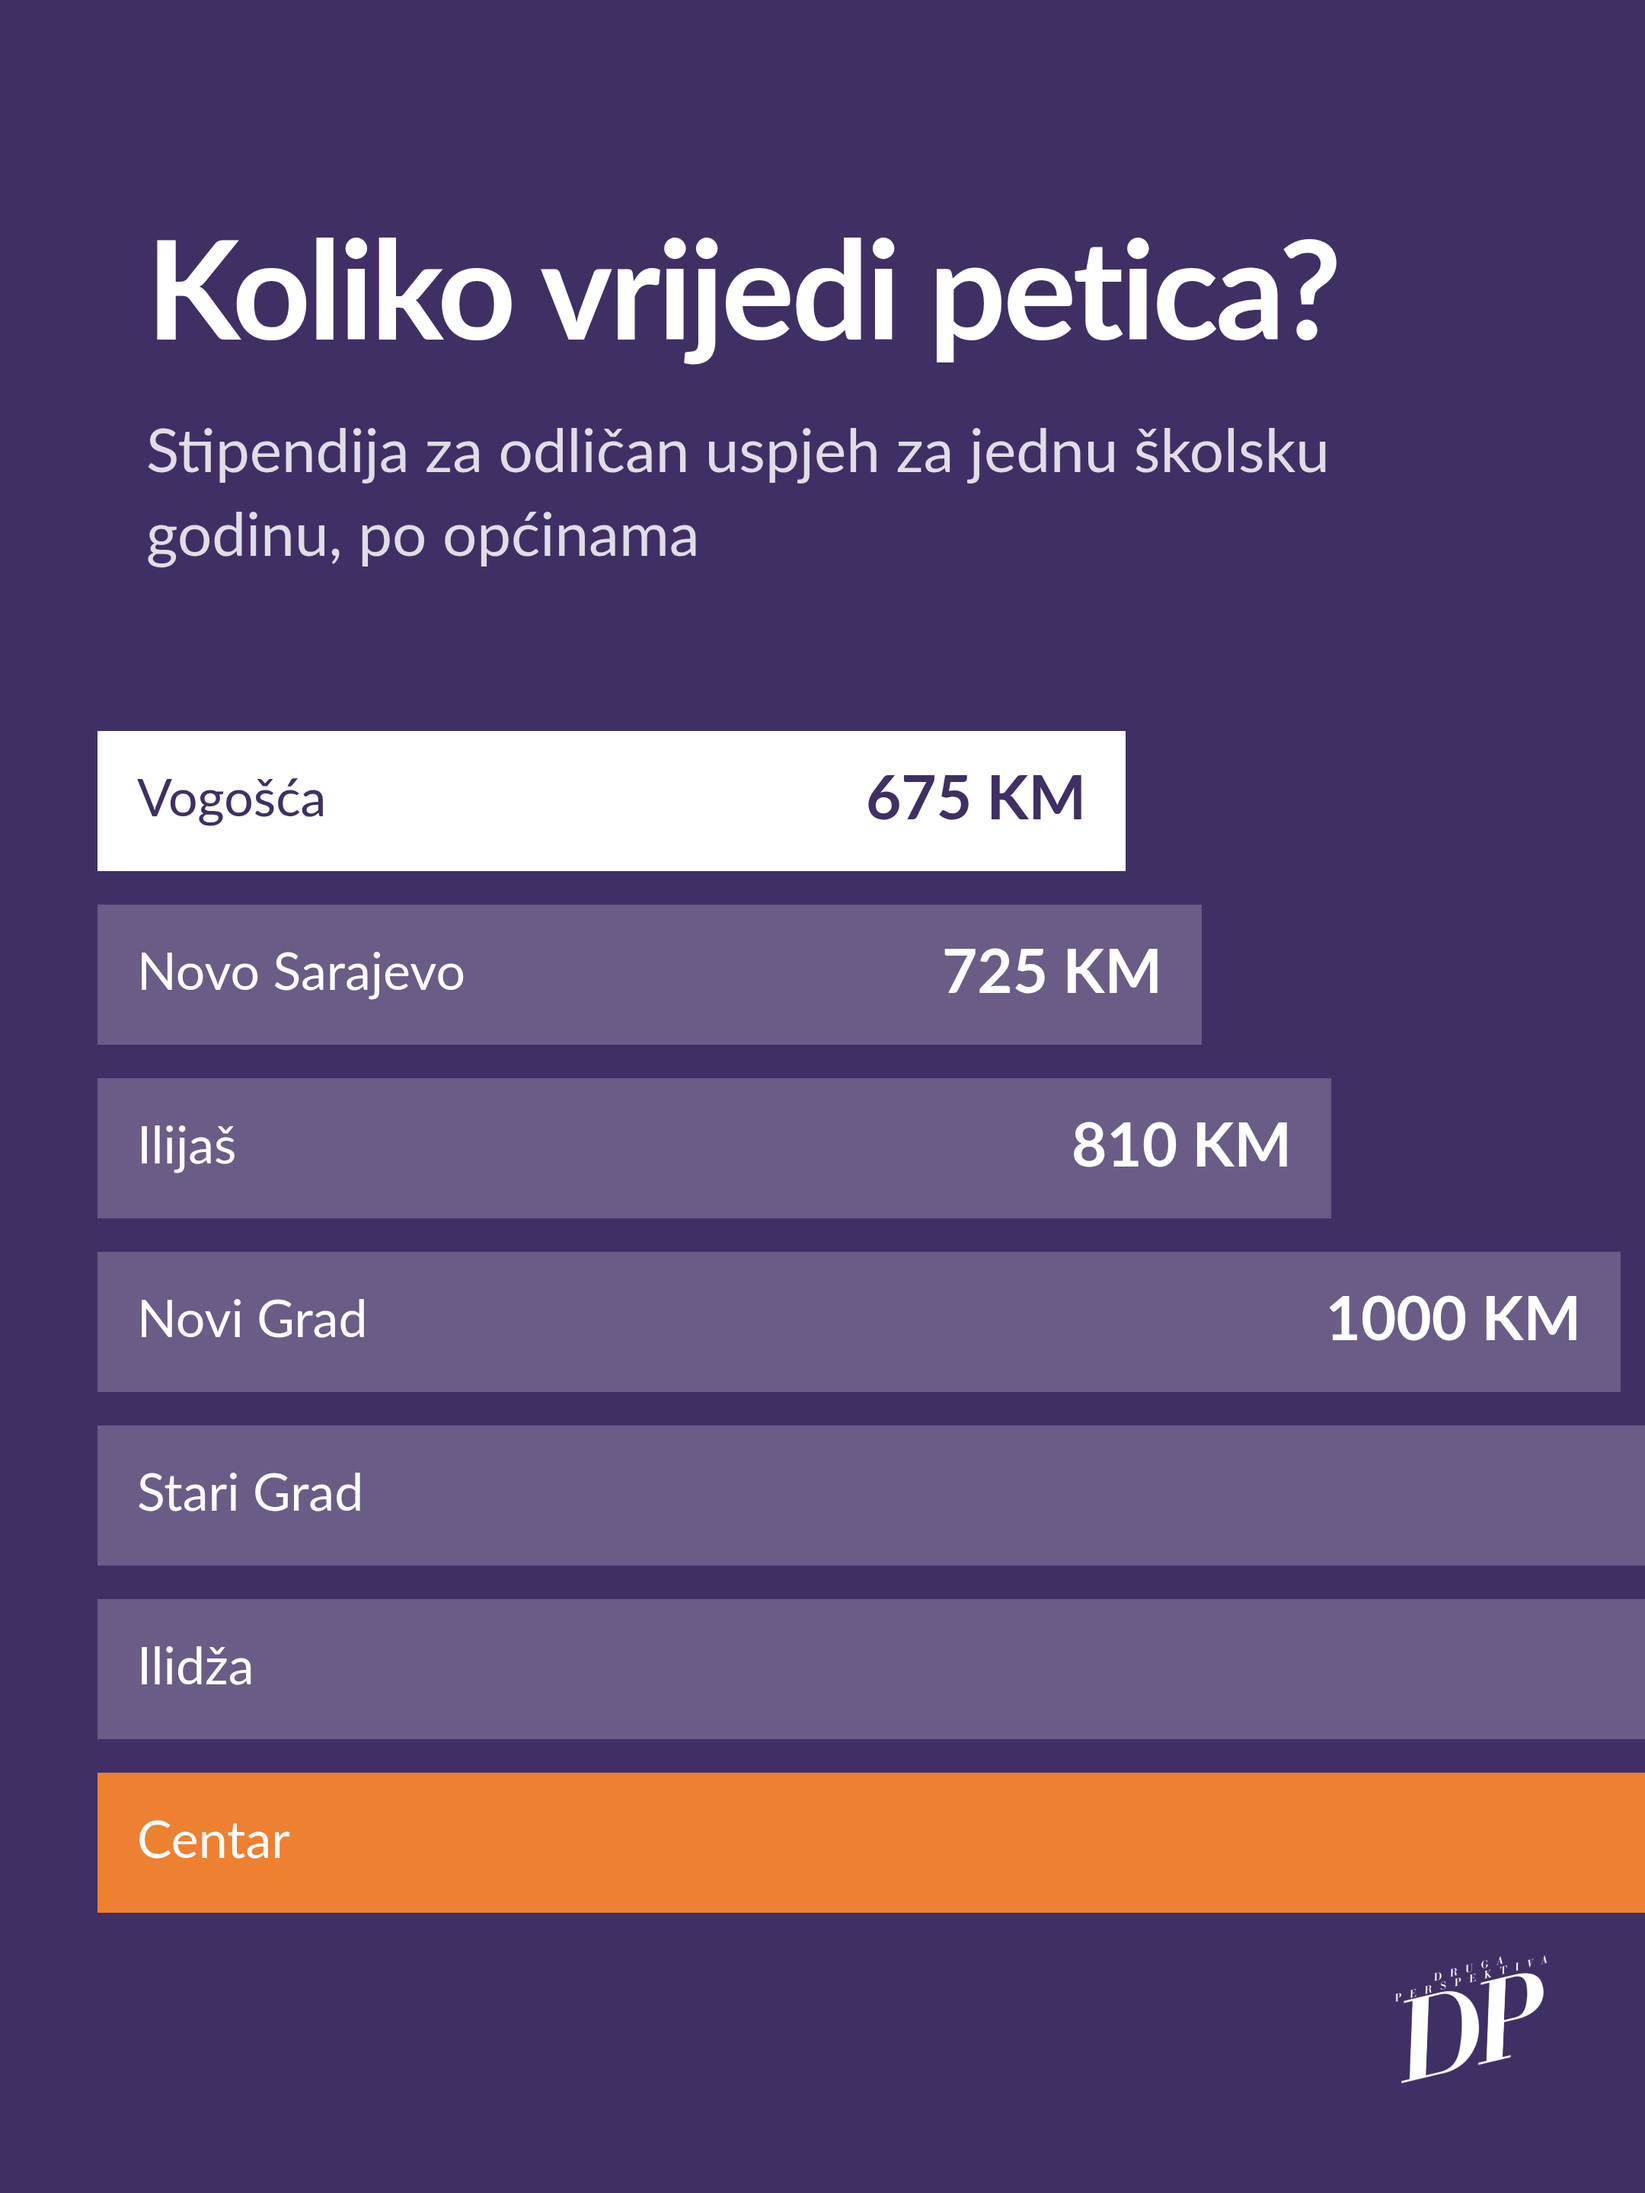
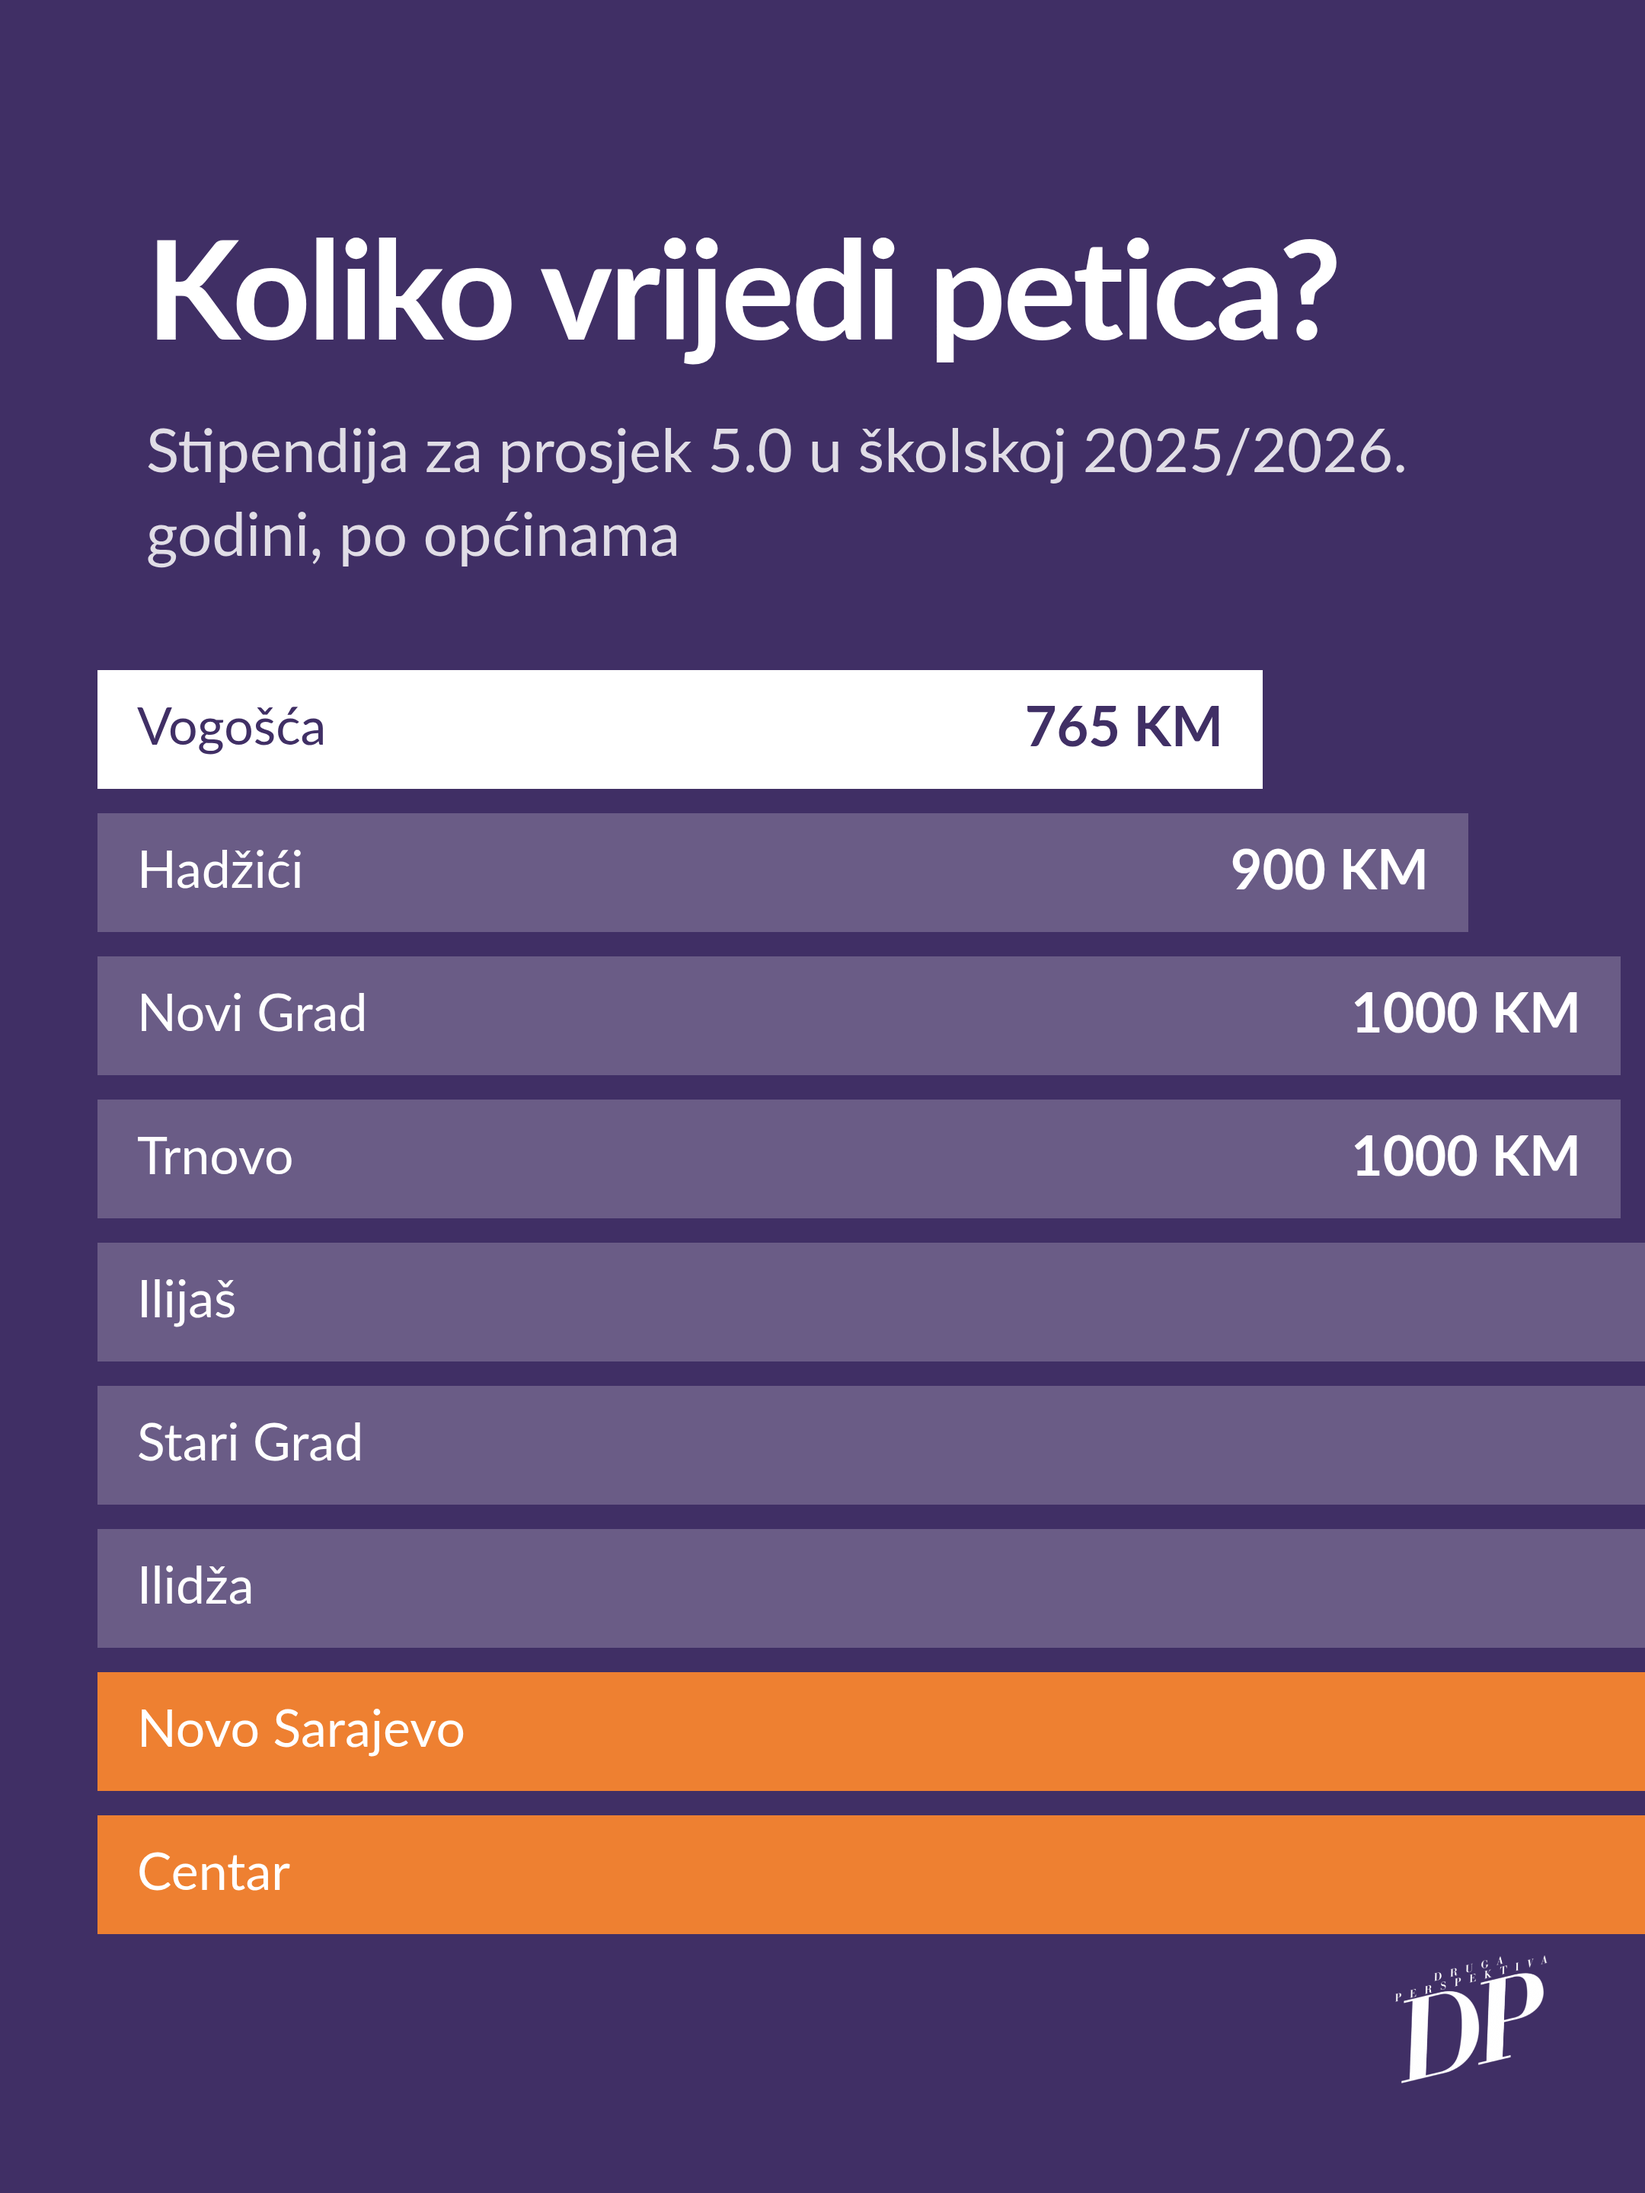
Update scholarship carousel and article text to 2025/26 amounts
All nine municipalities, amounts from each municipality's 2025/26 call;
salaries from FZS 2024. Adds CSVs for Datawrapper and the text changes
for the live article.

Claude-Session: https://claude.ai/code/session_01MhWfwGAVbUPACQRPCo5WCb

Changed region(s): [[0.062, 0.1875, 1.0, 0.9062]]

diff --git a/promo/trud-vrijedi-manje/dizajn.html b/promo/trud-vrijedi-manje/dizajn.html
@@ -7,7 +7,7 @@
 	Karusel od 7 slajdova za tekst „Da li moj trud vrijedi manje?“ (Mišljenje).
 	Slajdovi 3 i 4 su jedna panorama 2160 px: stupci stipendija idu preko oba slajda,
 	razmjer je 1 KM = 1 px, pa stupac za Centar prelazi na sljedeći slajd.
-	Podaci: grafikon i mapa iz teksta (Tarik Bećarević, Sema Čeljo; plate: FZS, 2023).
+	Podaci: konkursi općina za 2025/2026 i FZS, plate za 2024. (vidi podaci/ i azuriranje-clanka.md).
 -->
 <style>
 @font-face { font-family: "Lato"; font-weight: 400; src: url("../../dp-objave/assets/fonts/lato-400.woff2") format("woff2"); }
@@ -69,12 +69,15 @@ body { background: #777; font-family: "Lato", sans-serif; color: #fff; padding: 
 .panorama .uvod .tekst { margin-top: 28px; }
 .panorama .poenta { position: absolute; left: calc(1080px + var(--mt)); top: 150px; width: 880px; }
 .panorama .poenta .naslov { font-size: 72px; }
-.stupci { position: absolute; left: var(--m); top: 480px; display: flex; flex-direction: column; gap: 22px; }
+.stupci { position: absolute; left: var(--m); top: 440px; display: flex; flex-direction: column; gap: 16px; }
 .stubac {
-	height: 92px; background: rgba(255, 255, 255, .22); display: flex; align-items: center; justify-content: space-between;
+	height: 78px; background: rgba(255, 255, 255, .22); display: flex; align-items: center; justify-content: space-between;
 	padding: 0 26px; font-size: 34px; color: #fff; white-space: nowrap;
 }
-.stubac b { font-size: 40px; font-weight: 700; }
+.stubac b { font-size: 36px; font-weight: 700; }
+/* Iznos koji bi pao na spoj dva slajda ide van stupca. */
+.stubac.van { position: relative; }
+.stubac.van b { position: absolute; left: 100%; margin-left: 22px; }
 .stubac.min { background: #fff; color: var(--ljubicasta); }
 .stubac.max { background: var(--narandza); }
 .panorama .izvor { position: absolute; left: calc(1080px + var(--mt)); bottom: 72px; width: 760px; }
@@ -82,10 +85,10 @@ body { background: #777; font-family: "Lato", sans-serif; color: #fff; padding: 
 /* 5. Plate i stipendije. */
 .plate .gore { position: absolute; left: var(--mt); right: var(--mt); top: 150px; }
 .plate .naslov { font-size: 72px; }
-.lista { position: absolute; left: var(--mt); right: var(--mt); top: 560px; border-collapse: collapse; width: calc(100% - 2 * var(--mt)); }
+.lista { position: absolute; left: var(--mt); right: var(--mt); top: 440px; border-collapse: collapse; width: calc(100% - 2 * var(--mt)); }
 .lista th { font-size: 24px; font-weight: 400; color: rgba(255, 255, 255, .66); text-align: right; padding: 0 0 18px; vertical-align: bottom; line-height: 1.3; }
 .lista th:first-child { text-align: left; }
-.lista td { font-size: 36px; padding: 21px 0; border-top: 2px solid var(--linija); text-align: right; color: rgba(255, 255, 255, .5); white-space: nowrap; }
+.lista td { font-size: 34px; padding: 15px 0; border-top: 2px solid var(--linija); text-align: right; color: rgba(255, 255, 255, .5); white-space: nowrap; }
 .lista td:first-child { text-align: left; }
 .lista tr.jako td { color: #fff; font-weight: 700; }
 .plate .izvor { position: absolute; left: var(--mt); bottom: 72px; width: 760px; }
@@ -134,21 +137,23 @@ body { background: #777; font-family: "Lato", sans-serif; color: #fff; padding: 
 	<div class="panorama" id="panorama">
 		<div class="uvod">
 			<h2 class="naslov">Koliko vrijedi petica?</h2>
-			<p class="tekst">Stipendija za odličan uspjeh za jednu školsku godinu, po općinama</p>
+			<p class="tekst">Stipendija za prosjek 5.0 u školskoj 2025/2026. godini, po općinama</p>
 		</div>
 		<div class="poenta">
-			<h2 class="naslov">U Centru skoro tri puta više nego u Vogošći.</h2>
+			<h2 class="naslov">U Centru i Novom Sarajevu 2000 KM. U Vogošći 765 KM.</h2>
 		</div>
 		<div class="stupci">
-			<div class="stubac min" style="width:675px">Vogošća<b>675 KM</b></div>
-			<div class="stubac" style="width:725px">Novo Sarajevo<b>725 KM</b></div>
-			<div class="stubac" style="width:810px">Ilijaš<b>810 KM</b></div>
+			<div class="stubac min" style="width:765px">Vogošća<b>765 KM</b></div>
+			<div class="stubac" style="width:900px">Hadžići<b>900 KM</b></div>
 			<div class="stubac" style="width:1000px">Novi Grad<b>1000 KM</b></div>
+			<div class="stubac" style="width:1000px">Trnovo<b>1000 KM</b></div>
+			<div class="stubac van" style="width:1170px">Ilijaš<b>1170 KM</b></div>
 			<div class="stubac" style="width:1350px">Stari Grad<b>1350 KM</b></div>
 			<div class="stubac" style="width:1430px">Ilidža<b>1430 KM</b></div>
+			<div class="stubac max" style="width:2000px">Novo Sarajevo<b>2000 KM</b></div>
 			<div class="stubac max" style="width:2000px">Centar<b>2000 KM</b></div>
 		</div>
-		<p class="napomena izvor">Neto iznosi. Izvor: Druga perspektiva, april 2025.</p>
+		<p class="napomena izvor">Iznos za cijelu školsku godinu. U Ilidži i Novom Gradu stipendija zavisi i od prihoda porodice. Izvor: konkursi općina.</p>
 	</div>
 	<img class="logo" src="../../dp-objave/assets/logo-bijeli.png" alt="">
 </section>
@@ -161,19 +166,21 @@ body { background: #777; font-family: "Lato", sans-serif; color: #fff; padding: 
 <!-- 5. Plate i stipendije -->
 <section class="slide post plate">
 	<div class="gore">
-		<h2 class="naslov">U Ilijašu i Vogošći su plate najniže. I stipendije su među najmanjima.</h2>
+		<h2 class="naslov">Najveće stipendije daju općine s najvećim platama.</h2>
 	</div>
 	<table class="lista">
 		<tr><th>Općina</th><th>Prosječna<br>mjesečna plata</th><th>Stipendija<br>za godinu</th></tr>
-		<tr class="jako"><td>Ilijaš</td><td>991 KM</td><td>810 KM</td></tr>
-		<tr class="jako"><td>Vogošća</td><td>1246 KM</td><td>675 KM</td></tr>
-		<tr><td>Ilidža</td><td>1305 KM</td><td>1430 KM</td></tr>
-		<tr><td>Novi Grad</td><td>1434 KM</td><td>1000 KM</td></tr>
-		<tr><td>Stari Grad</td><td>1623 KM</td><td>1350 KM</td></tr>
-		<tr><td>Novo Sarajevo</td><td>1700 KM</td><td>725 KM</td></tr>
-		<tr><td>Centar</td><td>1776 KM</td><td>2000 KM</td></tr>
+		<tr class="jako"><td>Centar</td><td>1986 KM</td><td>2000 KM</td></tr>
+		<tr class="jako"><td>Novo Sarajevo</td><td>1830 KM</td><td>2000 KM</td></tr>
+		<tr><td>Stari Grad</td><td>1778 KM</td><td>1350 KM</td></tr>
+		<tr><td>Novi Grad</td><td>1545 KM</td><td>1000 KM</td></tr>
+		<tr><td>Ilidža</td><td>1408 KM</td><td>1430 KM</td></tr>
+		<tr><td>Hadžići</td><td>1341 KM</td><td>900 KM</td></tr>
+		<tr><td>Vogošća</td><td>1325 KM</td><td>765 KM</td></tr>
+		<tr><td>Trnovo</td><td>1301 KM</td><td>1000 KM</td></tr>
+		<tr><td>Ilijaš</td><td>1080 KM</td><td>1170 KM</td></tr>
 	</table>
-	<p class="napomena izvor">Neto iznosi. Plate za 2023. godinu, izvor: FZS.</p>
+	<p class="napomena izvor">Neto plate za 2024. godinu (FZS). Stipendije za školsku 2025/2026.</p>
 	<img class="logo" src="../../dp-objave/assets/logo-bijeli.png" alt="">
 </section>
 

diff --git a/promo/trud-vrijedi-manje/azuriranje-clanka.md b/promo/trud-vrijedi-manje/azuriranje-clanka.md
@@ -1,0 +1,67 @@
+# Ažuriranje teksta „Da li moj trud vrijedi manje?“
+
+Tekst na stranici: https://drugaperspektiva.org/da-li-moj-trud-vrijedi-manje/
+
+Lični dio priče (ponedjeljak, kafa, razgovor s prijateljem) ostaje kako je napisan jer opisuje šta se desilo u aprilu 2025. Mijenjaju se samo brojke, grafikoni i dva pasusa ispod.
+
+## 1. Napomena na vrhu teksta
+
+Zalijepi kao prvi blok (može pattern „Ispravka / ažuriranje“ iz teme):
+
+> **Ažurirano 30. septembra 2026.** Tekst je objavljen u aprilu 2025. Iznosi stipendija ažurirani su prema konkursima općina za školsku 2025/2026. godinu, a prosječne plate prema podacima Federalnog zavoda za statistiku za 2024. godinu. Mapa i grafikon sada obuhvataju svih devet općina Kantona Sarajevo. Općina Novo Sarajevo je u međuvremenu udvostručila stipendije, pa sada, zajedno s Općinom Centar, daje najviše: 2000 KM.
+
+## 2. Pasus ispod mape (zamijeniti)
+
+Staro:
+
+> Kao što vidite na mapi, raspon stipendija se kreće čak od 675KM u Općini Vogošća, pa sve do 2000KM u Općini Centar, što je skoro trostruko veća vrijednost.
+
+Novo:
+
+> Kao što vidite na mapi, za školsku 2025/2026. godinu raspon stipendija se kreće od 765 KM u Općini Vogošća, pa sve do 2000 KM u općinama Centar i Novo Sarajevo, što je više nego dvostruko veća vrijednost.
+
+(Rečenica koja slijedi, „Smatram, a nadam se da se i vi slažete sa mnom…“, ostaje ista.)
+
+## 3. Pasus ispod grafikona s platama (zamijeniti prvu rečenicu)
+
+Staro:
+
+> Kontradiktorno sa potrebama djece u općinama kao što su Ilijaš i Vogošća, gdje su prosječne mjesečne plate najniže, stipendije su također količinski najmanje.
+
+Novo:
+
+> Kontradiktorno sa potrebama djece u općinama kao što su Vogošća, Hadžići i Trnovo, gdje su prosječne mjesečne plate među najnižima, stipendije su također među najmanjima. Najveće stipendije, po 2000 KM, daju Centar i Novo Sarajevo, dvije općine s najvišim platama u kantonu.
+
+(Ostatak pasusa, od „Ovdje se postavlja pitanje…“, ostaje isti.)
+
+## 4. Mapa (Datawrapper): „Visina stipendije po općinama u KM“
+
+Podaci: `podaci/stipendije-2025-26.csv`. U Datawrapperu otvori postojeću mapu, zamijeni podatke i dodaj Hadžiće i Trnovo, koji na staroj mapi nisu imali iznos.
+
+- Naslov: **Visina stipendije za učenike po općinama, školska 2025/2026.**
+- Raspon legende: 765 KM – 2000 KM
+- Napomena ispod mape: *Godišnji iznos za učenika s prosjekom 5.0. U Ilidži i Novom Gradu stipendija zavisi i od prihoda domaćinstva. Izvor: konkursi i odluke općina za 2025/2026.*
+
+## 5. Grafikon (Datawrapper): „Usporedba stipendije i prosječne mjesečne plaće po općinama“
+
+Podaci: `podaci/plate-i-stipendije.csv` (devet općina, poredane od najniže plate).
+
+- Kolone: *Prosječna mjesečna neto plata 2024.* i *Iznos stipendije za školsku 2025/2026.*
+- Istaknuti (tamnija boja): Centar, Novo Sarajevo, Vogošća
+- Napomena: *Svi prikazani iznosi su neto. Plate su za 2024. godinu (FZS, „Kanton Sarajevo u brojkama 2025“). Stipendije su godišnji iznosi za školsku 2025/2026.*
+- Usput popravi grešku u zaglavlju kolone: „Prosječna mjesečna **plata plata**“ → „Prosječna mjesečna plata“.
+
+## Izvori (za provjeru)
+
+| Općina | Iznos | Izvor |
+|---|---|---|
+| Centar | 200 KM × 10 (prosjek 5.00) | [Javni poziv Općine Centar 2025/2026](https://stipendije.ba/konkursi/javni-poziv-opcine-centar-za-stipendiranje-ucenika-studenata-u-skolskoj-akademskoj-2025-2026-godini/), [centar.ba](https://www.centar.ba/vijesti/21554/objavljen-javni-poziv-za-stipendiranje-srednjoskolaca-i-studenata) |
+| Novo Sarajevo | 200 KM × 10 (prosjek 5.00) | [Konkurs Općine Novo Sarajevo 2025/26](https://stipendije.ba/konkursi/konkurs-opcine-novo-sarajevo-za-dodjelu-stipendija-ucenicima-srednjih-skola-i-studentima-u-sk-ak-2025-26-godini/) |
+| Ilidža | 143 KM × 10 | [Konkurs Općine Ilidža 2025/2026](https://stipendije.ba/konkursi/konkurs-opcine-ilidza-za-stipendiranje-ucenika-u-srednjem-i-studenata-u-visokoskolskom-obrazovanju-koji-su-ostvarili-uspjeh-u-prethodnoj-skolskoj-akademskoj-godini-a-imaju-odredeni-iznos-prihoda-po-c/) |
+| Stari Grad | 150 KM × 9 | [Četiri javna poziva Općine Stari Grad](https://stipendije.ba/novosti/opcina-stari-grad-sarajevo-objavila-cetiri-javna-poziva-za-dodjelu-stipendija-u-sk-ak-2025-26-godini/) |
+| Ilijaš | 130 KM × 9 | [ilijas.info, 17. 4. 2026.](https://ilijas.info/opcinsko-vijece-ilijas-usvojilo-plan-stipendiranja-421-ucenik-i-student-dobija-podrsku/) (9 mjeseci izračunato iz budžeta u članku) |
+| Novi Grad | 100 KM × 10 | [Stipendije Općine Novi Grad 2025/26](https://stipendije.ba/novosti/ucenicke-i-studentske-stipendije-opcine-novi-grad-sarajevo-za-sk-ak-2025-26-godinu/) |
+| Trnovo | 100 KM × 10 | [Stipendije u Trnovu 2025/26](https://stipendije.ba/novosti/u-trnovu-dodijeljene-opcinske-stipendije-za-skolsku-akademsku-2025-26-godinu/) |
+| Hadžići | 90 KM × 10 | [studomat.ba](https://studomat.ba/konkurs-opcine-hadzici-za-130-stipendija-90-km-za-ucenike-i-190-km-za-studente/199040/), [DP: Informacije o stipendijama](https://drugaperspektiva.org/informacije-o-stipendijama-za-ucenike-u-kantonu-sarajevo/) |
+| Vogošća | 85 KM × 9 | [Potpisivanje ugovora, 9. 2. 2026.](https://stipendije.ba/novosti/pocelo-potpisivanje-ugovora-sa-stipendistima-opcine-vogosca/) |
+| Plate 2024. | po općinama | [FZS, Kanton Sarajevo u brojkama 2025, tabela 4.2](http://fzs.ba/wp-content/uploads/2026/03/kanton-sarajevo.pdf) |
